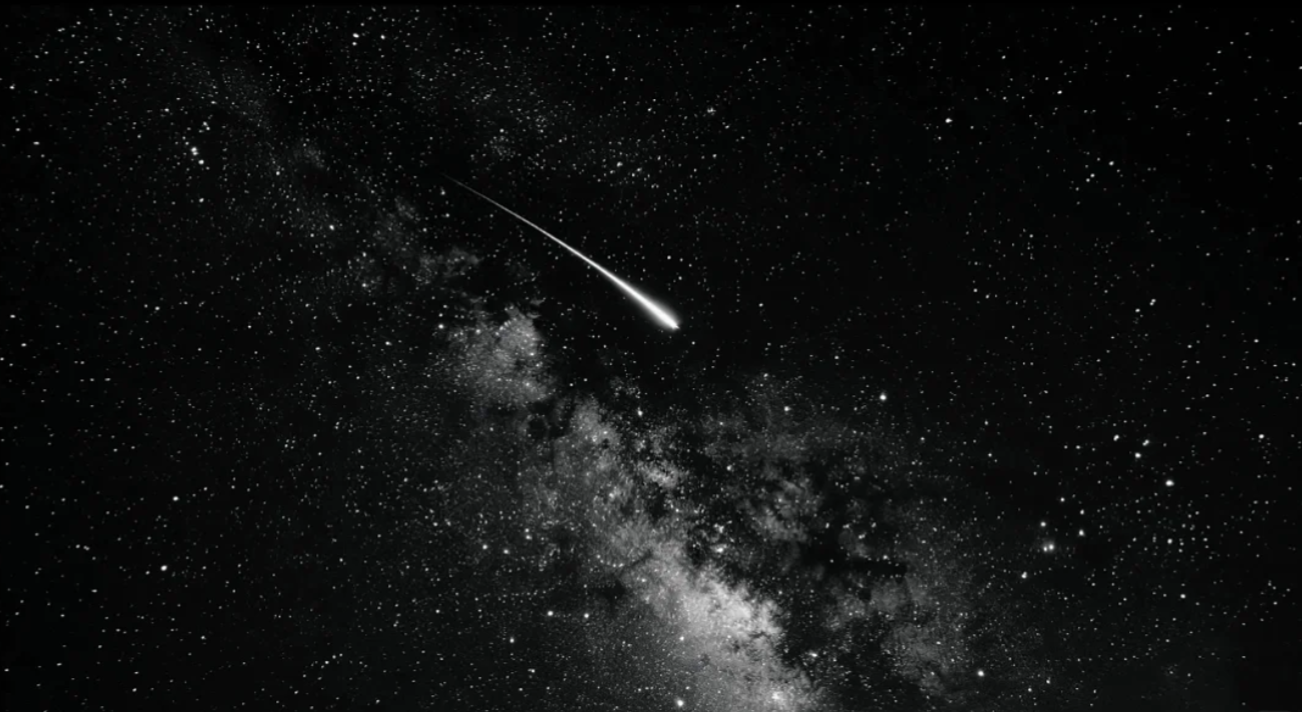
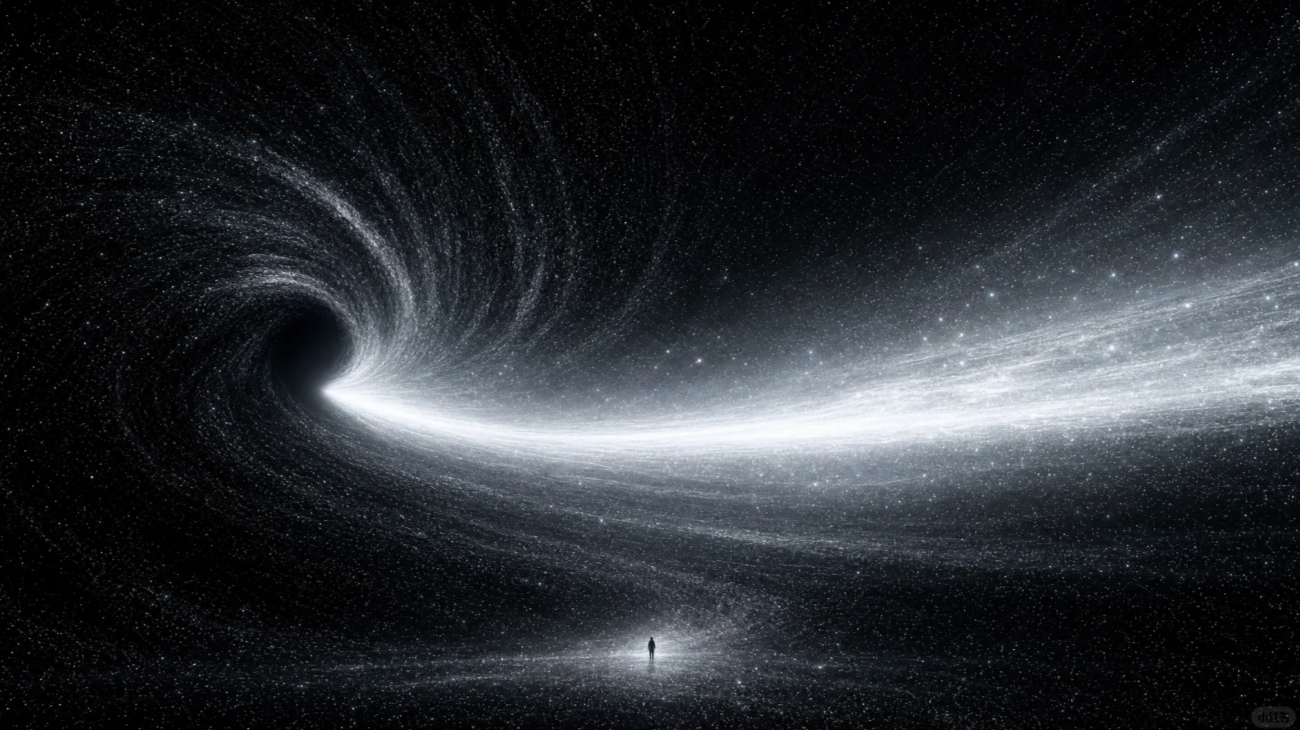
Update hero background and reduce particle size

diff --git a/src/components/HeroScene.tsx b/src/components/HeroScene.tsx
@@ -44,7 +44,7 @@ function ParticleField() {
       void main(){
         vec4 mv=modelViewMatrix*vec4(position,1.0);
         gl_Position=projectionMatrix*mv;
-        gl_PointSize=(0.8+aSeed*1.4)*uPixelRatio*(36.0/-mv.z);
+        gl_PointSize=(0.64+aSeed*1.12)*uPixelRatio*(36.0/-mv.z);
         vSeed=aSeed; vColor=aColor; vVelocity=aVelocity.xy;
       }`,
     fragmentShader: `
